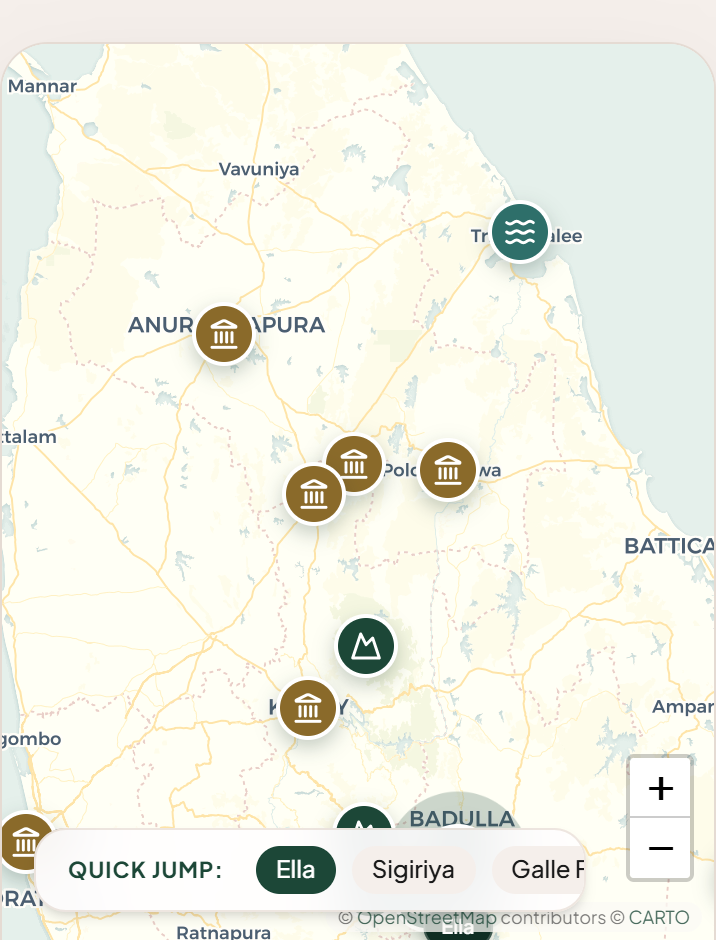
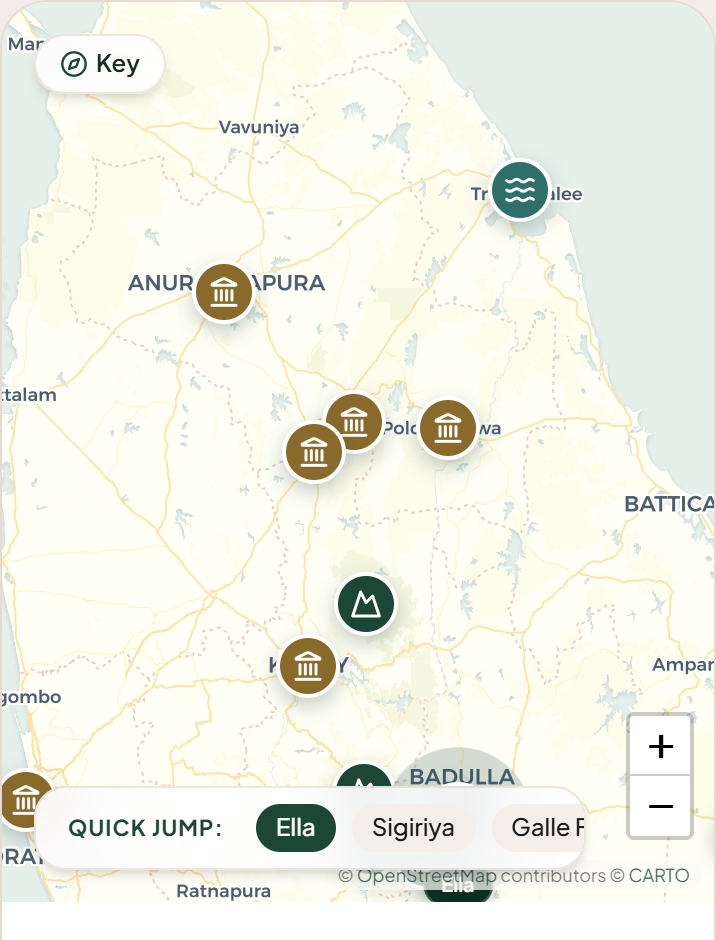
Map: phone Key button that opens the legend
Phones hide the Map Guide, so a small "Key" button on the map opens the
same legend list. It closes on Escape or a tap outside. Tests cover it on
a phone and check it stays hidden on desktop. Screenshots recaptured.

diff --git a/src/components/InteractiveMapSection.tsx b/src/components/InteractiveMapSection.tsx
@@ -37,6 +37,27 @@ const LEGEND_ICONS: Record<MapCategory, LucideIcon> = {
   'Hidden Gems': Gem
 };
 
+/** The legend list: a marker's colour and icon come from its first category. */
+const MapLegendList: React.FC<{ id?: string; className: string }> = ({ id, className }) => (
+  <ul id={id} className={className} aria-label="Map legend">
+    {MAP_CATEGORIES.map((cat) => {
+      const Icon = LEGEND_ICONS[cat];
+      const style = MAP_CATEGORY_STYLES[cat];
+      return (
+        <li key={cat} className="flex items-center gap-1.5 text-[11px] text-[#1A1A1A]/75" data-legend={cat}>
+          <span
+            className="w-4 h-4 rounded-full flex items-center justify-center shrink-0"
+            style={{ backgroundColor: style.color }}
+          >
+            <Icon className="w-2.5 h-2.5" style={{ color: style.iconColor }} strokeWidth={2.6} aria-hidden="true" />
+          </span>
+          {cat}
+        </li>
+      );
+    })}
+  </ul>
+);
+
 /** Names show for every marker from this zoom in (and always on hover/focus/active). */
 const LABEL_ZOOM = 9;
 /** Filter changes fit the map to the markers, but never closer than this. */
@@ -63,6 +84,23 @@ export const InteractiveMapSection: React.FC<InteractiveMapSectionProps> = ({
   // it, the first markers were never drawn until something re-rendered.)
   const [mapReady, setMapReady] = useState(false);
   const [showTouchHint, setShowTouchHint] = useState(false);
+  // Phones: the legend behind the Key button.
+  const [showKey, setShowKey] = useState(false);
+  const keyRef = useRef<HTMLDivElement>(null);
+
+  useEffect(() => {
+    if (!showKey) return;
+    const onKey = (e: KeyboardEvent) => e.key === 'Escape' && setShowKey(false);
+    const onPointer = (e: PointerEvent) => {
+      if (keyRef.current && !keyRef.current.contains(e.target as Node)) setShowKey(false);
+    };
+    window.addEventListener('keydown', onKey);
+    window.addEventListener('pointerdown', onPointer);
+    return () => {
+      window.removeEventListener('keydown', onKey);
+      window.removeEventListener('pointerdown', onPointer);
+    };
+  }, [showKey]);
 
   const categories: (CategoryType | 'All')[] = [
     'All',
@@ -356,24 +394,26 @@ export const InteractiveMapSection: React.FC<InteractiveMapSectionProps> = ({
                   Showing <strong className="text-[#0F2E23]">{filteredDestinations.length}</strong> location markers
                 </span>
               </div>
-              {/* Legend: a marker's colour and icon come from its first category. */}
-              <ul className="mt-2 pt-2 border-t border-[#D4C3B5]/40 grid grid-cols-2 gap-x-3 gap-y-1" aria-label="Map legend">
-                {MAP_CATEGORIES.map((cat) => {
-                  const Icon = LEGEND_ICONS[cat];
-                  const style = MAP_CATEGORY_STYLES[cat];
-                  return (
-                    <li key={cat} className="flex items-center gap-1.5 text-[11px] text-[#1A1A1A]/75" data-legend={cat}>
-                      <span
-                        className="w-4 h-4 rounded-full flex items-center justify-center shrink-0"
-                        style={{ backgroundColor: style.color }}
-                      >
-                        <Icon className="w-2.5 h-2.5" style={{ color: style.iconColor }} strokeWidth={2.6} aria-hidden="true" />
-                      </span>
-                      {cat}
-                    </li>
-                  );
-                })}
-              </ul>
+              <MapLegendList className="mt-2 pt-2 border-t border-[#D4C3B5]/40 grid grid-cols-2 gap-x-3 gap-y-1" />
+            </div>
+
+            {/* Phones, where the Map Guide is hidden: a small Key button that opens the legend. */}
+            <div ref={keyRef} className="absolute top-4 left-4 z-20 sm:hidden">
+              <button
+                type="button"
+                onClick={() => setShowKey((open) => !open)}
+                aria-expanded={showKey}
+                aria-controls="map-key-legend"
+                className="bg-white/90 backdrop-blur-md px-3 py-1.5 rounded-full shadow-md border border-[#D4C3B5]/40 text-xs font-semibold text-[#0F2E23] flex items-center gap-1"
+              >
+                <Compass className="w-3.5 h-3.5 text-[#1C4737]" aria-hidden="true" />
+                Key
+              </button>
+              {showKey && (
+                <div className="mt-2 bg-white/95 backdrop-blur-md px-3 py-2.5 rounded-2xl shadow-md border border-[#D4C3B5]/40">
+                  <MapLegendList id="map-key-legend" className="grid grid-cols-2 gap-x-3 gap-y-1.5" />
+                </div>
+              )}
             </div>
 
             {/* Touch screens: shown briefly when one finger swipes over the map. */}

diff --git a/server/test/browser-map.test.ts b/server/test/browser-map.test.ts
@@ -242,6 +242,48 @@ describe('the map, in Chrome', { skip }, () => {
     assert.ok(zoomedOpacities.every((o) => o === '1'), 'every name shows at zoom 9+');
   });
 
+  test('4. phones: a Key button opens the legend (all seven), Escape and a tap outside close it', async () => {
+    const page = await openMap({ mobile: true });
+    const key = `[...document.querySelectorAll('#explore-map button')].find((b) => b.textContent.trim() === 'Key')`;
+    const state = () =>
+      page.evaluate<{ visible: boolean; expanded: string | null; entries: string[] }>(`(() => {
+        const button = ${key};
+        const r = button.getBoundingClientRect();
+        return {
+          visible: r.width > 0 && r.height > 0,
+          expanded: button.getAttribute('aria-expanded'),
+          entries: [...document.querySelectorAll('#map-key-legend [data-legend]')].map((li) => li.dataset.legend)
+        };
+      })()`);
+
+    assert.deepEqual(await state(), { visible: true, expanded: 'false', entries: [] }, 'closed at first');
+
+    await page.evaluate(`(${key}).click(), true`);
+    await sleep(150);
+    assert.deepEqual(await state(), { visible: true, expanded: 'true', entries: Object.keys(MAP_CATEGORY_STYLES) });
+
+    await page.send('Input.dispatchKeyEvent', { type: 'keyDown', key: 'Escape', code: 'Escape', windowsVirtualKeyCode: 27 });
+    await sleep(150);
+    assert.equal((await state()).expanded, 'false', 'Escape closes it');
+
+    await page.evaluate(`(${key}).click(), true`);
+    await sleep(150);
+    await page.evaluate(`document.querySelector('#explore-map h2').dispatchEvent(new PointerEvent('pointerdown', { bubbles: true })), true`);
+    await sleep(150);
+    assert.equal((await state()).expanded, 'false', 'a tap outside closes it');
+  });
+
+  test('4. desktop: no Key button (the Map Guide shows the legend instead)', async () => {
+    const page = await openMap();
+    const visible = await page.evaluate<boolean>(`(() => {
+      const button = [...document.querySelectorAll('#explore-map button')].find((b) => b.textContent.trim() === 'Key');
+      if (!button) return false;
+      const r = button.getBoundingClientRect();
+      return r.width > 0 && r.height > 0;
+    })()`);
+    assert.equal(visible, false);
+  });
+
   test('2. touch: one finger is left to the page; the map takes two', async () => {
     const page = await openMap({ mobile: true });
     const classes = await page.evaluate<string>(`document.querySelector('#explore-map .leaflet-container').className`);
